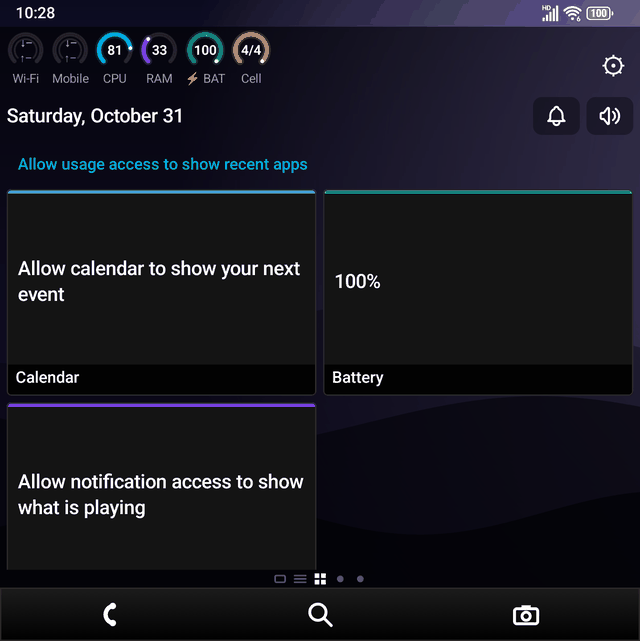
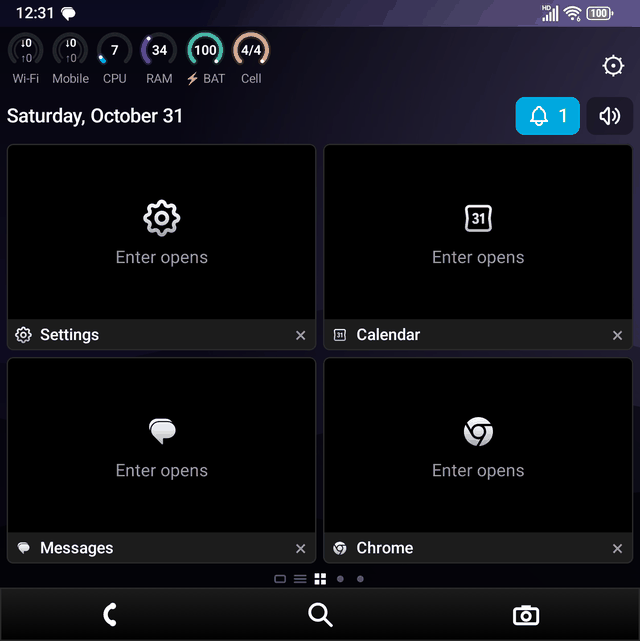
Peek: more opaque panel so text behind it stays out of the way; newer guide photos
Claude-Session: https://claude.ai/code/session_012uBkUHog7KoqpoTH2H6xEh

diff --git a/app/src/main/java/io/github/aimindseye/tenseven/ui/HubPeek.kt b/app/src/main/java/io/github/aimindseye/tenseven/ui/HubPeek.kt
@@ -174,7 +174,7 @@ private fun HubPeekPanel(
         modifier =
             Modifier
                 .fillMaxSize()
-                .background(Color.Black.copy(alpha = 0.3f * slide.value))
+                .background(Color.Black.copy(alpha = 0.45f * slide.value))
                 .clickable(indication = null, interactionSource = remember { MutableInteractionSource() }, onClick = onClose)
                 .onPreviewKeyEvent { event ->
                     if (event.key == Key.Escape && event.type == KeyEventType.KeyDown) {
@@ -287,7 +287,7 @@ private fun PeekRow(
         onClick = onClick,
         modifier = Modifier.fillMaxWidth().onFocusChanged { focused = it.isFocused },
         shape = RoundedCornerShape(12.dp),
-        color = if (focused) accent.copy(alpha = 0.22f) else MaterialTheme.colorScheme.onSurface.copy(alpha = 0.08f),
+        color = if (focused) accent.copy(alpha = 0.22f) else MaterialTheme.colorScheme.onSurface.copy(alpha = 0.14f),
         contentColor = MaterialTheme.colorScheme.onSurface,
         border = BorderStroke(if (focused) 2.dp else 1.dp, if (focused) accent else MaterialTheme.colorScheme.outlineVariant),
     ) {
@@ -363,4 +363,4 @@ private const val EXCLUSION_DP = 200
 private const val MAX_ROWS = 8
 
 /** How opaque the peek panel is; the rest lets Home show through. */
-private const val PANEL_ALPHA = 0.72f
+private const val PANEL_ALPHA = 0.9f

diff --git a/docs/USER_GUIDE.md b/docs/USER_GUIDE.md
@@ -120,7 +120,7 @@ Launcher Settings, **Icon grid**: choose Auto or 3 to 6 columns, 1 to 3 rows, th
 
 Launcher Settings, **Hub settings** (also the Hub's own settings button): **Clear the Hub now** forgets everything the Hub holds, **Apps in the Hub** turns individual apps off so their notifications stay out of the Hub, the peek and the lock layer, and **Show message text** decides whether the latest message may appear on the peek and the lock layer (off: names and counts only). Nothing is stored.
 
-**Peek**: always drawn in the phone's own colours (your wallpaper colours and light or dark), whatever launcher theme you chose, and see-through so Home shows behind it. On the BlackBerry 10 home, drag in from the very left edge to slide the latest conversations over Home. Tap one to open it in its app, **Open Hub** for the full page, Back or Escape to close. Space on the Hub slot of the bottom bar does the same, and works with any navigation style. The drag only works on the Home page, and with Android gesture navigation it must start in the strip of the left edge about halfway down the screen: Android keeps the rest of that edge for its own Back gesture (a small "<" arrow appears instead).
+**Peek**: always drawn in the phone's own colours (your wallpaper colours and light or dark), whatever launcher theme you chose, and slightly see-through, so Home shows faintly behind it. On the BlackBerry 10 home, drag in from the very left edge to slide the latest conversations over Home. Tap one to open it in its app, **Open Hub** for the full page, Back or Escape to close. Space on the Hub slot of the bottom bar does the same, and works with any navigation style. The drag only works on the Home page, and with Android gesture navigation it must start in the strip of the left edge about halfway down the screen: Android keeps the rest of that edge for its own Back gesture (a small "<" arrow appears instead).
 
 |  |  |  |  |
 |---|---|---|---|
